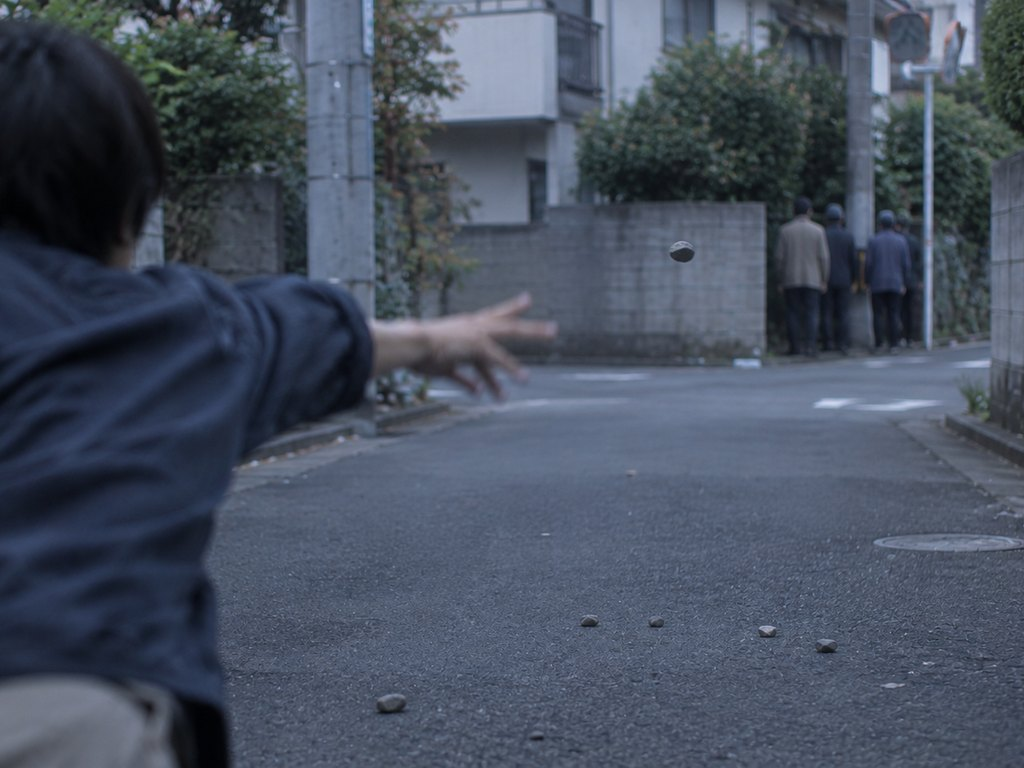
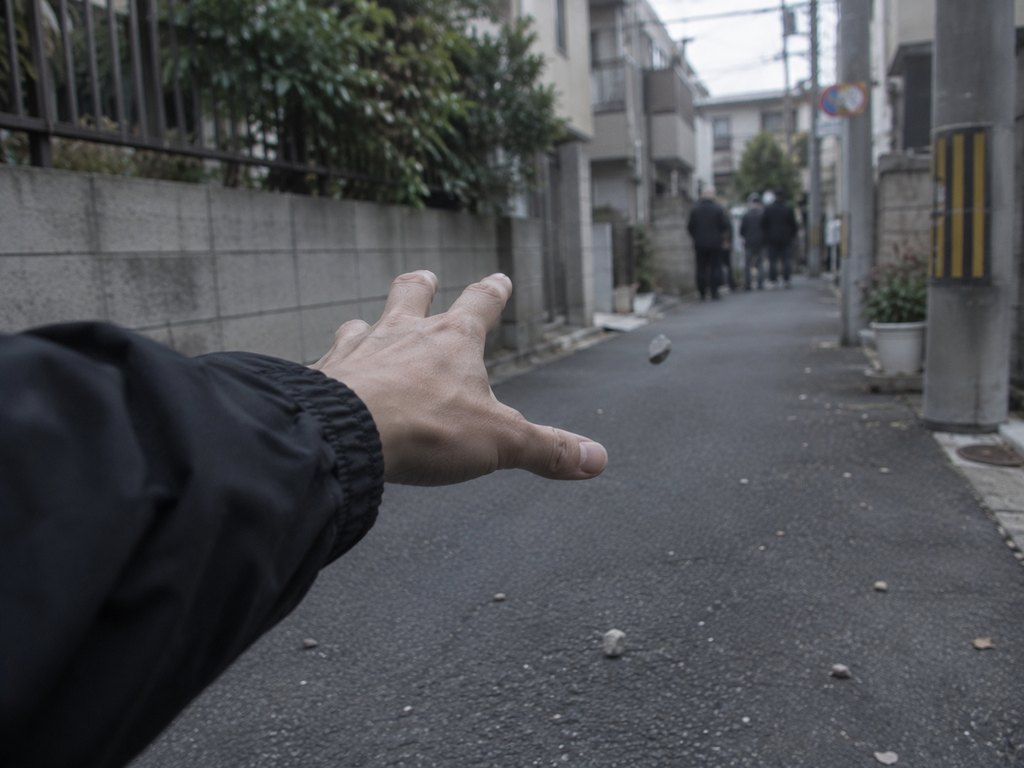
Action photos: hardware store, pharmacy, sleeping at a base; hide/throw outdoors again from the player's own eyes
Claude-Session: https://claude.ai/code/session_01CCou6QCaAQY4XRDWydzt9P

diff --git a/docs/IMAGE_PROMPTS.md b/docs/IMAGE_PROMPTS.md
@@ -110,7 +110,7 @@
 - `assets/photos/ending_rescued_lair.jpg`（横長 16:9）結末：略奪者の仲間と救助 — 朝の光。幌つきトラックの荷台の中、うつむいて座る男たちの膝と手（手ぶら）。後ろの幕の隙間から、遠ざかる倉庫街と、屋根のブルーシートの「SOS」、門の前に置き去りにされた鉄パイプの山が小さく見える。顔ははっきり写さない。
 
 
-## 8. 文章と食い違っている行動写真（v149.35・16枚できた／残り3枚＋任意1枚）
+## 8. 文章と食い違っている行動写真（v149.35・21枚できた／残りは任意の包帯1枚）
 
 行動写真が1枚しかないために、文章と食い違う場面がある（例：テレビでニュースを見たのに、スマホの写真が出る）。場面ごとの写真を足して、文章に合わせて出し分ける。
 
@@ -134,8 +134,8 @@
 
 ### 外で息をひそめる・物を投げる
 今の写真は家の中（窓から瓶を投げる）だけで、外の場面と合わない。
-- `act_hide_out.jpg` 外で物陰に隠れる（作り直し：自分の目線で） — 曇りの昼の住宅街。しゃがんだ自分の目線で、すぐ横にブロック塀の角と止めてある車のボディがある。塀の角に添えた自分の手と、黒っぽい上着の袖。塀の端から少しだけのぞいた先の路地に、ぼやけた人影がよろよろと歩いている。手前に自分の膝が少し写る。自分の後ろ姿や頭は写さない。
-- `act_distract_stone.jpg` 外で石を投げる（作り直し：自分の目線で） — 曇りの昼の住宅街の通り。自分の目線で、前に伸ばした腕と開いた手のひら（黒っぽい上着の袖）。手を離れたばかりの石が、通りの奥へ飛んでいく。奥の角に、こちらへ背を向けた人影が数体。手前のアスファルトに小石が転がっている。自分の後ろ姿や頭は写さない。
+- ✅ `act_hide_out.jpg` 外で物陰に隠れる（作り直し：自分の目線で） — 曇りの昼の住宅街。しゃがんだ自分の目線で、すぐ横にブロック塀の角と止めてある車のボディがある。塀の角に添えた自分の手と、黒っぽい上着の袖。塀の端から少しだけのぞいた先の路地に、ぼやけた人影がよろよろと歩いている。手前に自分の膝が少し写る。自分の後ろ姿や頭は写さない。
+- ✅ `act_distract_stone.jpg` 外で石を投げる（作り直し：自分の目線で） — 曇りの昼の住宅街の通り。自分の目線で、前に伸ばした腕と開いた手のひら（黒っぽい上着の袖）。手を離れたばかりの石が、通りの奥へ飛んでいく。奥の角に、こちらへ背を向けた人影が数体。手前のアスファルトに小石が転がっている。自分の後ろ姿や頭は写さない。
 
 ### 裏口から出る（集合住宅）
 - ✅ `act_back_door_flat.jpg` ベランダの避難はしご — 古いマンションのベランダの床にある避難はしごのふた（金属のハッチ）を開け、下の階のベランダへ降りようとしている手と足元。下に、はしごと下の階のベランダの床が見える。
@@ -161,9 +161,9 @@
 
 ### 買い物（店ごと）
 今のスーパーのかごの写真は食品店で使う。
-- `act_shop_hardware.jpg` 金物店 — 金物店のレジ台に置いた、バール・ガムテープ・ロープ・軍手。財布からお札を出す手。後ろの棚に工具が並んでいる（文字は読めない）。
-- `act_shop_pharmacy.jpg` 薬局 — 薬局のカウンター。包帯、消毒液、絆創膏の箱（文字は読めない）を置き、店員の手が袋に詰めている。
+- ✅ `act_shop_hardware.jpg` 金物店 — 金物店のレジ台に置いた、バール・ガムテープ・ロープ・軍手。財布からお札を出す手。後ろの棚に工具が並んでいる（文字は読めない）。
+- ✅ `act_shop_pharmacy.jpg` 薬局 — 薬局のカウンター。包帯、消毒液、絆創膏の箱（文字は読めない）を置き、店員の手が袋に詰めている。
 
 ### 拠点で眠る
 今の写真は自宅の寝室。
-- `act_sleep_base.jpg` 店や倉庫の拠点で眠る — 夜。シャッターを下ろした店の床に段ボールを敷き、寝袋にくるまっている。寝袋の端を握る手。枕元にランタンと、立てかけたバール。
+- ✅ `act_sleep_base.jpg` 店や倉庫の拠点で眠る — 夜。シャッターを下ろした店の床に段ボールを敷き、寝袋にくるまっている。寝袋の端を握る手。枕元にランタンと、立てかけたバール。
